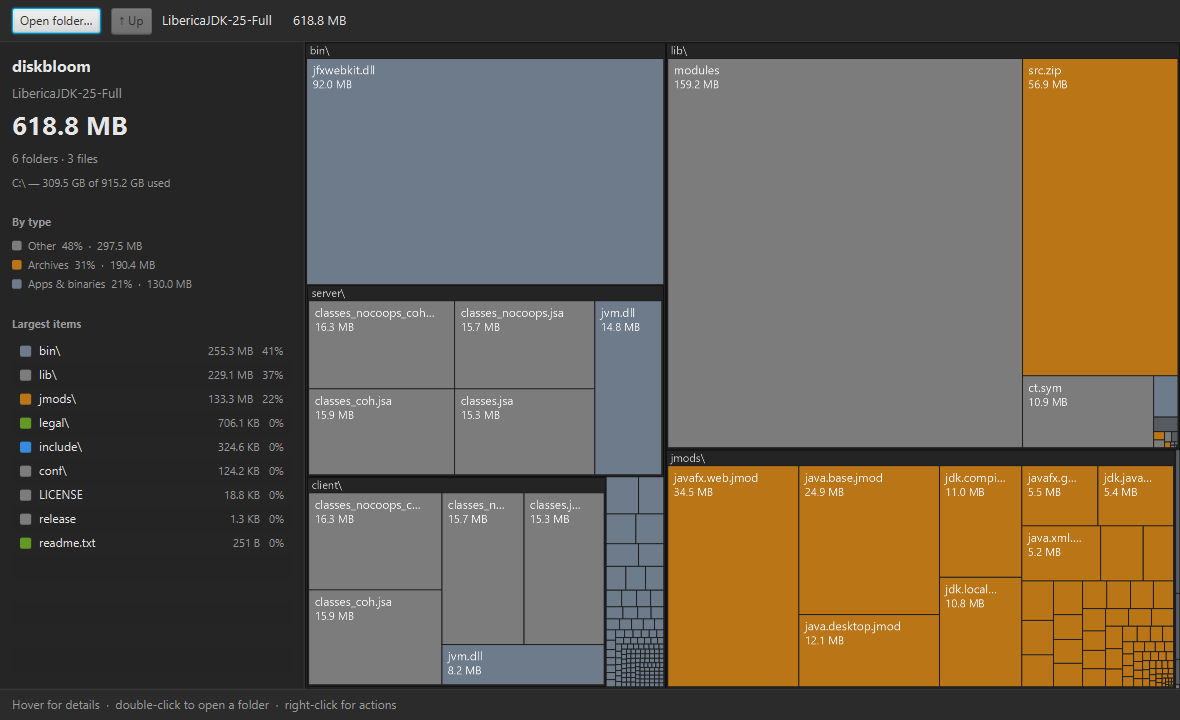
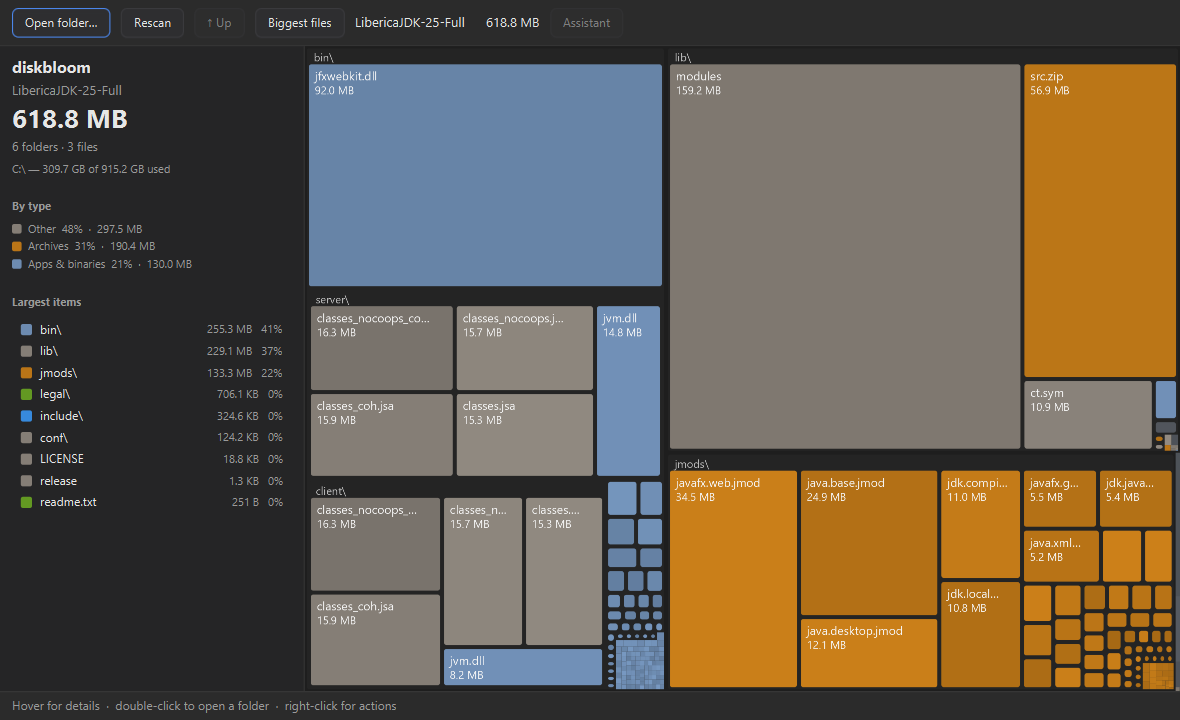
Nicer treemap: rounded 'mosaic' tiles instead of hard cubes
- rounded tiles with small gaps (fillRoundRect) instead of 1px-bordered rects
- shallower nesting (depth 4, larger min-subdivide) and a distinct slate-blue
  for binaries so one-type folders aren't a gray wall
- subtle per-tile brightness shading; tiles too small for a gap render as plain
  fills so dense folders stay a solid texture, not a dotty mesh

diff --git a/src/dev/diskbloom/ui/App.java b/src/dev/diskbloom/ui/App.java
@@ -79,13 +79,13 @@ public class App extends Application {
 
     private static final String BG = "#1e1e1e", PANEL = "#252526", LINE = "#3a3a3a",
             CONTAINER = "#242424", FG = "#e6e6e6", DIM = "#9a9a9a";
-    private static final int MAX_DEPTH = 6;
-    private static final double MIN_SUBDIV = 28, MIN_LEAF = 3;
+    private static final int MAX_DEPTH = 4;
+    private static final double MIN_SUBDIV = 38, MIN_LEAF = 3, GAP = 2, ARC = 5;
 
     private enum Cat {
         VIDEO("Video", "#7f77dd"), IMAGE("Images", "#1d9e75"), AUDIO("Audio", "#d4537e"),
         ARCHIVE("Archives", "#ba7517"), CODE("Code", "#378add"), DOC("Documents", "#639922"),
-        APP("Apps & binaries", "#6e7b8b"), FOLDER("Folders", "#565b62"), OTHER("Other", "#7c7c7c");
+        APP("Apps & binaries", "#6d8bb0"), FOLDER("Folders", "#565b62"), OTHER("Other", "#857e76");
         final String label; final Color color;
         Cat(String label, String hex) { this.label = label; this.color = Color.web(hex); }
     }
@@ -538,33 +538,44 @@ public class App extends Application {
     }
 
     private void drawFolder(GraphicsContext g, Tile t) {
+        double x = t.x() + GAP, y = t.y() + GAP, w = t.w() - GAP * 2, h = t.h() - GAP * 2;
+        if (w <= 0 || h <= 0) return;
         g.setFill(Color.web(CONTAINER));
-        g.fillRect(t.x(), t.y(), t.w(), t.h());
-        boolean sel = t.node() == selected;
-        g.setStroke(sel ? Color.WHITE : Color.web("#111111"));
-        g.setLineWidth(sel ? 2.5 : 1);
-        g.strokeRect(t.x() + 0.5, t.y() + 0.5, t.w() - 1, t.h() - 1);
-        if (t.h() > 18 && t.w() > 52) {
-            g.setFill(Color.web("#cfcfcf"));
+        g.fillRoundRect(x, y, w, h, ARC, ARC);
+        if (t.node() == selected) {
+            g.setStroke(Color.WHITE);
+            g.setLineWidth(2);
+            g.strokeRoundRect(x + 1, y + 1, w - 2, h - 2, ARC, ARC);
+        }
+        if (h > 18 && w > 52) {
+            g.setFill(Color.web("#c2c2c2"));
             g.setFont(Font.font("Segoe UI", FontWeight.SEMI_BOLD, 11));
-            g.fillText(clip(t.node().name + "\\", t.w() - 10), t.x() + 5, t.y() + 12);
+            g.fillText(clip(t.node().name + "\\", w - 12), x + 7, y + 13);
         }
     }
 
     private void drawLeaf(GraphicsContext g, Tile t) {
-        boolean sel = t.node() == selected;
-        g.setFill(t.color());
-        g.fillRect(t.x(), t.y(), t.w(), t.h());
-        g.setStroke(sel ? Color.WHITE : Color.web(BG));
-        g.setLineWidth(sel ? 2.5 : 1);
-        g.strokeRect(t.x(), t.y(), t.w(), t.h());
-        if (t.w() > 46 && t.h() > 22) {
-            g.setFill(luminance(t.color()) > 0.55 ? Color.web("#141414") : Color.web("#f6f6f6"));
+        Color c = shade(t.color(), t.node());
+        if (t.w() < 7 || t.h() < 7) { // too small for a gap/round -> plain fill so dense areas stay solid, not dotty
+            g.setFill(c);
+            g.fillRect(t.x(), t.y(), t.w(), t.h());
+            return;
+        }
+        double x = t.x() + GAP, y = t.y() + GAP, w = t.w() - GAP * 2, h = t.h() - GAP * 2;
+        g.setFill(c);
+        g.fillRoundRect(x, y, w, h, ARC, ARC);
+        if (t.node() == selected) {
+            g.setStroke(Color.WHITE);
+            g.setLineWidth(2);
+            g.strokeRoundRect(x + 1, y + 1, w - 2, h - 2, ARC, ARC);
+        }
+        if (w > 46 && h > 22) {
+            g.setFill(luminance(c) > 0.55 ? Color.web("#141414") : Color.web("#f6f6f6"));
             g.setFont(Font.font("Segoe UI", FontWeight.SEMI_BOLD, 12));
-            g.fillText(clip(t.node().name + (t.node().dir ? "\\" : ""), t.w() - 12), t.x() + 6, t.y() + 16);
-            if (t.h() > 36) {
+            g.fillText(clip(t.node().name + (t.node().dir ? "\\" : ""), w - 12), x + 6, y + 16);
+            if (h > 36) {
                 g.setFont(Font.font("Segoe UI", 11));
-                g.fillText(Sizes.human(t.node().size), t.x() + 6, t.y() + 30);
+                g.fillText(Sizes.human(t.node().size), x + 6, y + 30);
             }
         }
     }
@@ -693,6 +704,13 @@ public class App extends Application {
 
     private static double luminance(Color c) {
         return 0.299 * c.getRed() + 0.587 * c.getGreen() + 0.114 * c.getBlue();
+    }
+
+    // subtle per-tile brightness variation so a folder full of one file type
+    // reads as a mosaic instead of a flat wall
+    private static Color shade(Color base, Node n) {
+        double f = 0.9 + ((n.name.hashCode() >>> 24) & 0xFF) / 255.0 * 0.2;
+        return base.deriveColor(0, 1, f, 1);
     }
 
     private static String rgb(Color c) {